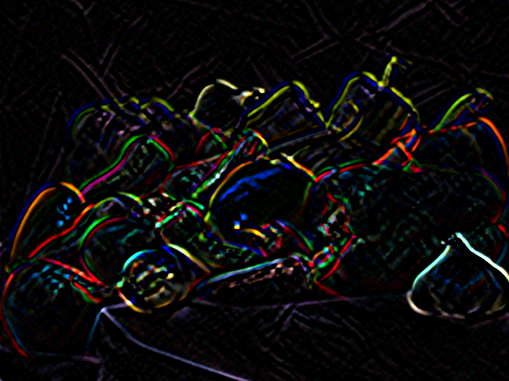
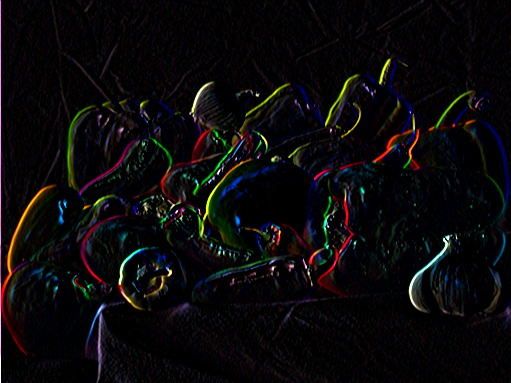
0.7 - Correções na Functionality 7 e Testes em Imagens

diff --git a/Module I/main.py b/Module I/main.py
@@ -17,6 +17,51 @@ from PointFilter import PointFilter
 from LocalFilter import LocalFilter
 
 
+def show_image(image_path: str, plot: bool) -> None:
+    if not plot in ["False", "false", False]:
+        image = mpimg.imread(image_path)
+        _, axes = plt.subplots(1)
+        axes.imshow(image)
+        axes.set_axis_off()
+        plt.show()
+
+def show_image_with_dot_rectangle(image_path: str, plot: bool, center_position: tuple, rectangle_size: tuple, color='white', size=15):
+    if not plot in ["False", "false", False]:
+        image = mpimg.imread(image_path) 
+        _, axes = plt.subplots(1)
+        axes.imshow(image)
+        dot_rectangle_plot(center_position, rectangle_size, color=color, size=size)
+        axes.set_axis_off()
+        plt.show()
+
+def show_gray_map(matrix) -> None:
+    _, axes = plt.subplots(1)
+    plt.imshow(matrix, cmap='gray')
+    axes.set_axis_off()
+    plt.show()
+
+def dot_rectangle_plot(center_position: tuple, rectangle_size: tuple, color='white', size=15):
+    half_width = int(rectangle_size[0] / 2)
+    half_height = int(rectangle_size[1] / 2)
+
+    x0 = center_position[0] - half_width
+    x1 = center_position[0] - int(half_width/2)
+    x2 = center_position[0]
+    x3 = center_position[0] + int(half_width/2)
+    x4 = center_position[0] + half_width
+
+    y0 = center_position[1] - half_height
+    y1 = center_position[1] - int(half_height/2)
+    y2 = center_position[1]
+    y3 = center_position[1] + int(half_height/2)
+    y4 = center_position[1] + half_height
+
+    rectangle_xs = [x0, x1, x2, x3, x4, x0, x4, x0, x4, x0, x4, x0, x1, x2, x3, x4]
+    rectangle_ys = [y0, y0, y0, y0, y0, y1, y1, y2, y2, y3, y3, y4, y4, y4, y4, y4]
+
+    plt.scatter(x=rectangle_xs, y=rectangle_ys, c=color, s=size)
+
+
 def functionality1(image_name: str, plot):
     image_data = ImageData("images\\" + image_name)
 
@@ -25,11 +70,7 @@ def functionality1(image_name: str, plot):
 
     image_data.set_rgb_from_matrices(r, g, b)
     new_image_path = image_data.save_image(new_file_name_suffix='(rgb-yiq-rgb)')
-
-    if not plot in ["False", "false", False]:
-        image = mpimg.imread(new_image_path) 
-        plt.imshow(image)
-        plt.show()
+    show_image(new_image_path, plot)
 
 
 def functionality2(image_name: str, plot):
@@ -42,11 +83,7 @@ def functionality2(image_name: str, plot):
 
     image_data.set_rgb_from_matrices(r_negative, g_negative, b_negative)
     new_image_path = image_data.save_image(new_file_name_suffix='(negative-rgb)')
-
-    if not plot in ["False", "false", False]:
-        image = mpimg.imread(new_image_path) 
-        plt.imshow(image)
-        plt.show()
+    show_image(new_image_path, plot)
 
     # PARTE 2 - Negativo em Y
     image_data = ImageData("images\\" + image_name)
@@ -59,17 +96,12 @@ def functionality2(image_name: str, plot):
 
     image_data.set_rgb_from_matrices(r, g, b)
     new_image_path = image_data.save_image(new_file_name_suffix='(negative-y)')
-
-    if not plot in ["False", "false", False]:
-        image = mpimg.imread(new_image_path) 
-        plt.imshow(image)
-        plt.show()
+    show_image(new_image_path, plot)
     
 
 def functionality3(image_name: str, plot):
     # PARTE 1 - Filtro Média
     image_data = ImageData("images\\" + image_name)
-    
     red_mean   = LocalFilter().apply_mean_filter(image_data.get_matrix_red()  , mask_size=(5,5))
     green_mean = LocalFilter().apply_mean_filter(image_data.get_matrix_green(), mask_size=(5,5))
     blue_mean  = LocalFilter().apply_mean_filter(image_data.get_matrix_blue() , mask_size=(5,5))
@@ -77,12 +109,11 @@ def functionality3(image_name: str, plot):
     image_data.set_rgb_from_matrices(red_mean, green_mean, blue_mean)
     image_filtered_mean_path = image_data.save_image(new_file_name_suffix='(media)')
 
-    if not plot in ["False", "false", False]:
-        image = mpimg.imread(image_filtered_mean_path) 
-        plt.imshow(image)
-        plt.show()
+    show_image(image_filtered_mean_path, plot)
 
-    # PARTE 2 - Filtro Sobel
+    # PARTE 2 - Filtros de Sobel
+    image_data = ImageData("images\\" + image_name)
+
     sobel_horizontal_mask = Matrix().get_matrix_from_file('mask\\sobel horizontal.txt')
     red_sobel_horizontal   = LocalFilter().apply_generic_filter(image_data.get_matrix_red()  , sobel_horizontal_mask)
     green_sobel_horizontal = LocalFilter().apply_generic_filter(image_data.get_matrix_green(), sobel_horizontal_mask)
@@ -90,11 +121,9 @@ def functionality3(image_name: str, plot):
 
     image_data.set_rgb_from_matrices(red_sobel_horizontal, green_sobel_horizontal, blue_sobel_horizontal)
     image_filtered_sobel_horizontal_path = image_data.save_image(new_file_name_suffix='(sobel horizontal)')
+    show_image(image_filtered_sobel_horizontal_path, plot)
 
-    if not plot in ["False", "false", False]:
-        image = mpimg.imread(image_filtered_sobel_horizontal_path) 
-        plt.imshow(image)
-        plt.show()
+    image_data = ImageData("images\\" + image_name)
 
     sobel_vertical_mask = Matrix().get_matrix_from_file('mask\\sobel vertical.txt')
     red_sobel_vertical   = LocalFilter().apply_generic_filter(image_data.get_matrix_red()  , sobel_vertical_mask)
@@ -103,11 +132,7 @@ def functionality3(image_name: str, plot):
 
     image_data.set_rgb_from_matrices(red_sobel_vertical, green_sobel_vertical, blue_sobel_vertical)
     image_filtered_sobel_vertical_path = image_data.save_image(new_file_name_suffix='(sobel vertical)')
-
-    if not plot in ["False", "false", False]:
-        image = mpimg.imread(image_filtered_sobel_vertical_path) 
-        plt.imshow(image)
-        plt.show()
+    show_image(image_filtered_sobel_vertical_path, plot)
 
 
 def functionality4(image_name: str, plot):
@@ -126,10 +151,7 @@ def functionality4(image_name: str, plot):
     end = time.time()
     print(end - start)
 
-    if not plot in ["False", "false", False]:
-        image = mpimg.imread(image_filtered_mean_path) 
-        plt.imshow(image)
-        plt.show()
+    show_image(image_filtered_mean_path, plot)
 
     # PARTE 2 - Aplicando Matriz 25x1 e depois 1x25
     image_data = ImageData("images\\" + image_name)
@@ -151,10 +173,7 @@ def functionality4(image_name: str, plot):
     end = time.time()
     print(end - start)
 
-    if not plot in ["False", "false", False]:
-        image = mpimg.imread(image_filtered_mean_path) 
-        plt.imshow(image)
-        plt.show()
+    show_image(image_filtered_mean_path, plot)
 
 
 def functionality5(image_name: str, plot):
@@ -166,11 +185,8 @@ def functionality5(image_name: str, plot):
     
     image_data.set_rgb_from_matrices(red_median, green_median, blue_median)
     image_filtered_median_path = image_data.save_image(new_file_name_suffix='(mediana)')
-    
-    if not plot in ["False", "false", False]:
-        image = mpimg.imread(image_filtered_median_path) 
-        plt.imshow(image)
-        plt.show()
+    show_image(image_filtered_median_path, plot)
+
 
 def functionality6(image_name, pattern_name, plot):    
     pattern_data  = ImageData("images\\" + pattern_name)
@@ -225,25 +241,22 @@ def functionality6(image_name, pattern_name, plot):
     mean_col_center = biggest_mean_correlation_positions[1][0]
 
     if not plot in ["False", "false", False]:
-        plt.imshow(mean_cross_correlation, cmap='gray')
-        plt.show()
-
-        image = mpimg.imread("images\\" + image_name) 
-        plt.imshow(image)
-        dot_rectangle_plot((mean_col_center, mean_row_center), (pattern_data.number_columns, pattern_data.number_rows))
-        plt.show()
+        # Correlação mapeada e exibida em tons de cinza:
+        show_gray_map(mean_cross_correlation)
+        # Exibição da imagem com a região de maior correlação destacada:
+        show_image_with_dot_rectangle("images\\" + image_name, plot, (mean_col_center, mean_row_center), (pattern_data.number_columns, pattern_data.number_rows))
         
 
 def functionality7(image_name, pattern_name, plot):
     pattern_data  = ImageData("images\\" + pattern_name)
-    pattern_red_normalized   = normalize( np.asmatrix(pattern_data.get_matrix_red())   , norm='l2')  
-    pattern_green_normalized = normalize( np.asmatrix(pattern_data.get_matrix_green()) , norm='l2')  
-    pattern_blue_normalized  = normalize( np.asmatrix(pattern_data.get_matrix_blue())  , norm='l2')  
+    pattern_red   = pattern_data.get_matrix_red()   
+    pattern_green = pattern_data.get_matrix_green()
+    pattern_blue  = pattern_data.get_matrix_blue() 
 
     image_data  = ImageData("images\\" + image_name)
-    image_red   = LocalFilter().zero_padding(image_data.get_matrix_red()  , pattern_red_normalized.shape  )
-    image_green = LocalFilter().zero_padding(image_data.get_matrix_green(), pattern_green_normalized.shape)
-    image_blue  = LocalFilter().zero_padding(image_data.get_matrix_blue() , pattern_blue_normalized.shape )
+    image_red   = LocalFilter().zero_padding(image_data.get_matrix_red()  , (pattern_data.number_rows, pattern_data.number_columns))
+    image_green = LocalFilter().zero_padding(image_data.get_matrix_green(), (pattern_data.number_rows, pattern_data.number_columns))
+    image_blue  = LocalFilter().zero_padding(image_data.get_matrix_blue() , (pattern_data.number_rows, pattern_data.number_columns))
 
     mean_cross_correlation = []
     # Itera até menos o pattern para não ultrapassar os limites da imagem com o local i e j:
@@ -258,19 +271,17 @@ def functionality7(image_name, pattern_name, plot):
                 red_local_matrix_row   = []
                 green_local_matrix_row = []
                 blue_local_matrix_row  = []
-
                 for local_j in range(pattern_data.number_columns):
                     red_local_matrix_row.append(image_red[i+local_i][j+local_j])
                     green_local_matrix_row.append(image_green[i+local_i][j+local_j])
                     blue_local_matrix_row.append(image_blue[i+local_i][j+local_j])
-
                 red_local_matrix.append(red_local_matrix_row)
                 green_local_matrix.append(green_local_matrix_row)
                 blue_local_matrix.append(blue_local_matrix_row)
-            # Aplicação da correlação:
-            red_correlation   = np.asmatrix(LocalFilter().correlation(red_local_matrix  , pattern_red_normalized  ))
-            green_correlation = np.asmatrix(LocalFilter().correlation(green_local_matrix, pattern_green_normalized))
-            blue_correlation  = np.asmatrix(LocalFilter().correlation(blue_local_matrix , pattern_blue_normalized ))
+           
+            red_correlation   = LocalFilter().correlation(red_local_matrix  , pattern_red  )
+            green_correlation = LocalFilter().correlation(green_local_matrix, pattern_green)
+            blue_correlation  = LocalFilter().correlation(blue_local_matrix , pattern_blue )
 
             mean_cross_correlation_row.append((red_correlation + green_correlation + blue_correlation)/3)
 
@@ -283,35 +294,11 @@ def functionality7(image_name, pattern_name, plot):
     mean_col_center = biggest_mean_correlation_positions[1][0]
 
     if not plot in ["False", "false", False]:
-        plt.imshow(mean_cross_correlation, cmap='gray')
-        plt.show()
+        # Correlação mapeada e exibida em tons de cinza:
+        show_gray_map(mean_cross_correlation)
+        # Exibição da imagem com a região de maior correlação destacada:
+        show_image_with_dot_rectangle("images\\" + image_name, plot, (mean_col_center, mean_row_center), (pattern_data.number_columns, pattern_data.number_rows))
 
-        image = mpimg.imread("images\\" + image_name) 
-        plt.imshow(image)
-        dot_rectangle_plot((mean_col_center, mean_row_center), (pattern_data.number_columns, pattern_data.number_rows))
-        plt.show()
-    
-
-def dot_rectangle_plot(center_position: tuple, rectangle_size: tuple, color='white', size=15):
-    half_width = int(rectangle_size[0] / 2)
-    half_height = int(rectangle_size[1] / 2)
-
-    x0 = center_position[0] - half_width
-    x1 = center_position[0] - int(half_width/2)
-    x2 = center_position[0]
-    x3 = center_position[0] + int(half_width/2)
-    x4 = center_position[0] + half_width
-
-    y0 = center_position[1] - half_height
-    y1 = center_position[1] - int(half_height/2)
-    y2 = center_position[1]
-    y3 = center_position[1] + int(half_height/2)
-    y4 = center_position[1] + half_height
-
-    rectangle_xs = [x0, x1, x2, x3, x4, x0, x4, x0, x4, x0, x4, x0, x1, x2, x3, x4]
-    rectangle_ys = [y0, y0, y0, y0, y0, y1, y1, y2, y2, y3, y3, y4, y4, y4, y4, y4]
-
-    plt.scatter(x=rectangle_xs, y=rectangle_ys, c=color, s=size)
 
 if __name__ == '__main__':
     ap = argparse.ArgumentParser()
